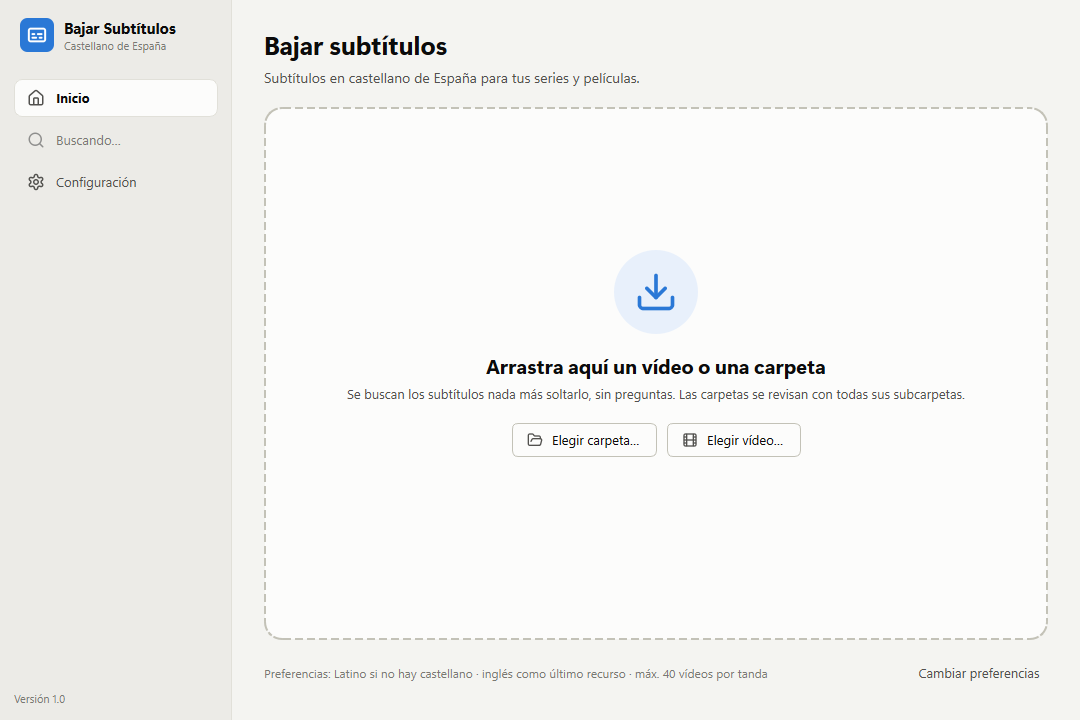
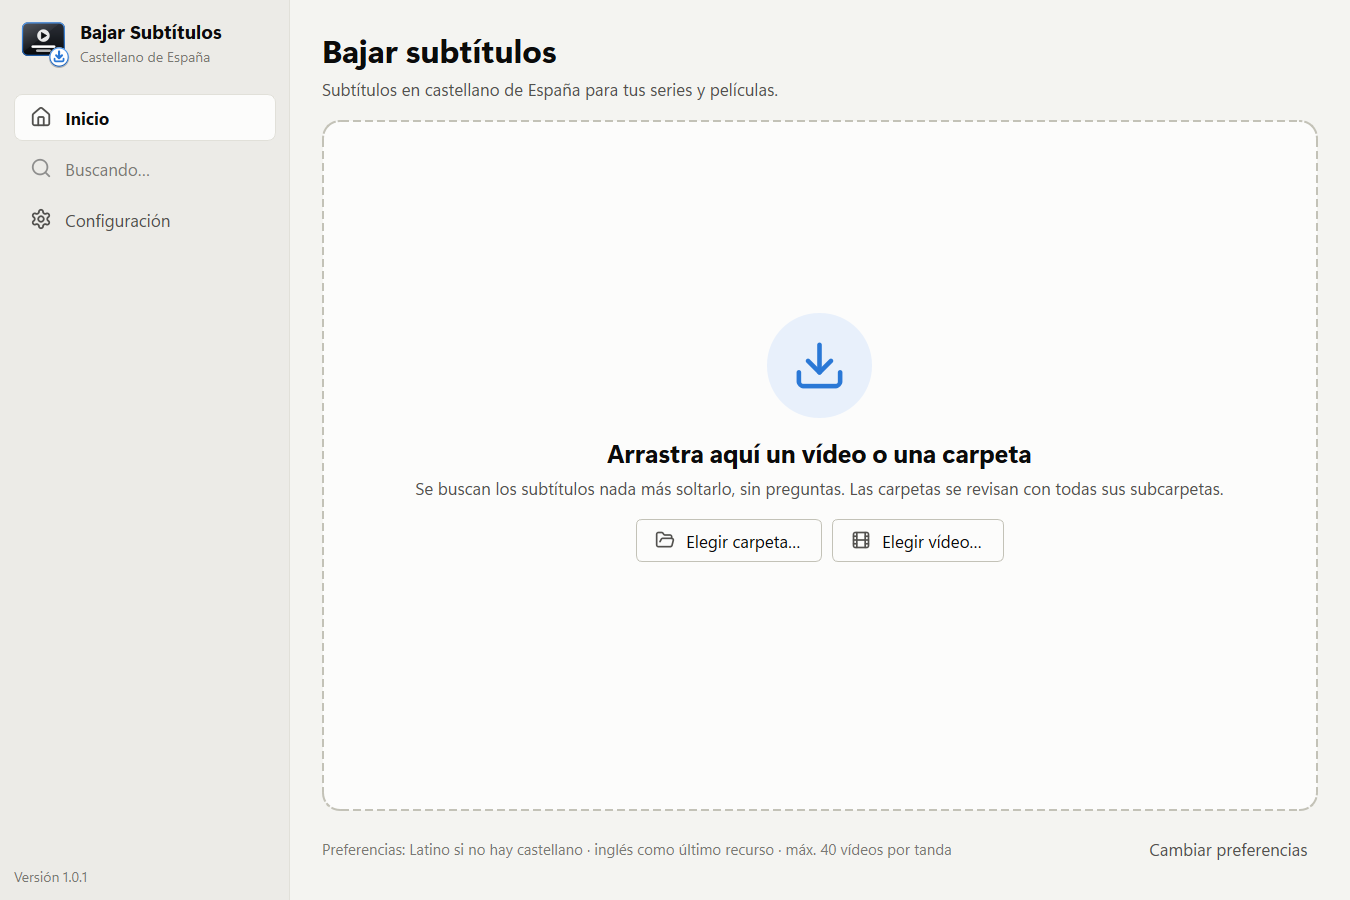
Icono nuevo: pantalla de vídeo con subtítulos y descarga
- iconos.ICONO_APP (SVG): pantalla de cristal oscuro con marco azul,
  play y subtítulos, y una flecha que entra en una bandeja (círculo
  blanco con aro azul). Sin fondo: el contorno es la propia pantalla.
- icono_app() lo dibuja a cada tamaño; el .ico incluye también 20 y
  40 px (los que usa Windows con escalado del 125 % y 250 %).
- Logo de la barra lateral dibujado a la resolución de la pantalla.
- Capturas del README regeneradas.

diff --git a/app/iconos.py b/app/iconos.py
@@ -37,6 +37,50 @@ TRAZOS = {
 }
 
 
+# Icono de la app: pantalla de vídeo (cristal oscuro con marco azul) con play y subtítulos, y una
+# flecha que entra en una bandeja (descargar). Sin fondo: el contorno es la propia pantalla.
+ICONO_APP = '''<svg xmlns="http://www.w3.org/2000/svg" viewBox="0 0 256 256">
+<defs>
+  <linearGradient id="pantalla" x1="0" y1="0" x2="0" y2="1">
+    <stop offset="0" stop-color="#2c3038"/><stop offset="1" stop-color="#07090c"/>
+  </linearGradient>
+  <linearGradient id="vidrio" x1="0" y1="0" x2="1" y2="1">
+    <stop offset="0" stop-color="#ffffff" stop-opacity="0.20"/>
+    <stop offset="0.45" stop-color="#ffffff" stop-opacity="0.05"/>
+    <stop offset="0.46" stop-color="#ffffff" stop-opacity="0"/>
+  </linearGradient>
+  <linearGradient id="azul" x1="0" y1="0" x2="0" y2="1">
+    <stop offset="0" stop-color="#4f9cf5"/><stop offset="1" stop-color="#1c5fb3"/>
+  </linearGradient>
+</defs>
+<rect x="10" y="22" width="220" height="172" rx="30" fill="url(#pantalla)"/>
+<rect x="10" y="22" width="220" height="172" rx="30" fill="url(#vidrio)"/>
+<rect x="13" y="25" width="214" height="166" rx="27" fill="none" stroke="url(#azul)" stroke-width="6"/>
+<circle cx="120" cy="90" r="32" fill="#ffffff" fill-opacity="0.9"/>
+<path d="M109.8 74 L136.6 90 L109.8 106 Z" fill="#0b0d10" stroke="#0b0d10" stroke-width="3.8" stroke-linejoin="round"/>
+<rect x="58" y="140" width="124" height="13" rx="6.5" fill="#ffffff"/>
+<rect x="81.6" y="160.8" width="76.9" height="13" rx="6.5" fill="#ffffff" fill-opacity="0.7"/>
+<circle cx="200" cy="204" r="52" fill="#000000" fill-opacity="0.25"/>
+<circle cx="200" cy="200" r="50" fill="#ffffff"/>
+<circle cx="200" cy="200" r="47" fill="none" stroke="url(#azul)" stroke-width="6"/>
+<path d="M200 171 V204 M185 191 L200 206 L215 191" fill="none" stroke="#2a78d6" stroke-width="11"
+      stroke-linecap="round" stroke-linejoin="round"/>
+<path d="M177 208 V216 A6 6 0 0 0 183 222 H217 A6 6 0 0 0 223 216 V208" fill="none" stroke="#2a78d6"
+      stroke-width="9" stroke-linecap="round" stroke-linejoin="round"/>
+</svg>'''
+
+
+def pixmap_app(lado):
+    """El icono de la app a `lado` x `lado` píxeles."""
+    pm = QPixmap(lado, lado)
+    pm.fill(Qt.transparent)
+    p = QPainter(pm)
+    p.setRenderHint(QPainter.Antialiasing)
+    QSvgRenderer(QByteArray(ICONO_APP.encode())).render(p, QRectF(0, 0, lado, lado))
+    p.end()
+    return pm
+
+
 def _svg(nombre, color, grosor):
     return (f'<svg xmlns="http://www.w3.org/2000/svg" viewBox="0 0 24 24" fill="none" stroke="{color}" '
             f'stroke-width="{grosor}" stroke-linecap="round" stroke-linejoin="round">{TRAZOS[nombre]}</svg>')

diff --git a/app/ventana.py b/app/ventana.py
@@ -2,7 +2,7 @@
 from pathlib import Path
 
 from PySide6.QtCore import QEvent, QPoint, QRectF, Qt, QUrl
-from PySide6.QtGui import QColor, QDesktopServices, QFont, QGuiApplication, QIcon, QPainter, QPen, QPixmap
+from PySide6.QtGui import QDesktopServices, QFont, QGuiApplication, QIcon, QPainter, QPen
 from PySide6.QtWidgets import (QApplication, QButtonGroup, QFrame, QHBoxLayout, QLabel, QMainWindow,
                                QPushButton, QStackedWidget, QVBoxLayout, QWidget)
 
@@ -26,20 +26,10 @@ INICIO, BUSCANDO, AJUSTES = range(3)
 
 
 def icono_app():
-    """Icono de la app: subtítulos blancos sobre un cuadrado redondeado azul."""
+    """Icono de la app (iconos.ICONO_APP) dibujado a cada tamaño que usa Windows, nítido en todos."""
     ico = QIcon()
-    for lado in (16, 24, 32, 48, 64, 128, 256):
-        pm = QPixmap(lado, lado)
-        pm.fill(Qt.transparent)
-        p = QPainter(pm)
-        p.setRenderHint(QPainter.Antialiasing)
-        p.setPen(Qt.NoPen)
-        p.setBrush(QColor('#2a78d6'))
-        p.drawRoundedRect(QRectF(0, 0, lado, lado), lado * 0.22, lado * 0.22)
-        m = lado * 0.18
-        iconos.dibujar(p, 'subtitulos', '#ffffff', QRectF(m, m, lado - 2 * m, lado - 2 * m), 2.2)
-        p.end()
-        ico.addPixmap(pm)
+    for lado in (16, 20, 24, 32, 40, 48, 64, 128, 256):
+        ico.addPixmap(iconos.pixmap_app(lado))
     return ico
 
 
@@ -291,7 +281,11 @@ class Ventana(QMainWindow):
         px = tema.px
         self.setMinimumSize(px(640) + px(232), px(560))
         self.lateral.setFixedWidth(px(232))
-        self.logo.setPixmap(icono_app().pixmap(px(34), px(34)))
+        # Dibujado a la resolución real de la pantalla (nítido con cualquier escalado de Windows).
+        escala = self.devicePixelRatioF() or 1.0
+        logo = iconos.pixmap_app(round(px(40) * escala))
+        logo.setDevicePixelRatio(escala)
+        self.logo.setPixmap(logo)
         for b in self.nav_botones:
             b.setIcon(iconos.icono(b._icono, t['texto2'], px(18)))
         for ic in self.findChildren(IconoLabel):

diff --git a/packaging/generar_recursos.py b/packaging/generar_recursos.py
@@ -1,6 +1,6 @@
 """Genera los recursos del empaquetado (se ejecuta antes de PyInstaller, con el Python de Windows):
 
-- packaging/build/icono.ico: el icono de la app (16-256 px, PNG dentro del .ico).
+- packaging/build/icono.ico: el icono de la app (16-256 px, PNG dentro del .ico), desde iconos.ICONO_APP.
 - packaging/build/version.txt: datos de versión del .exe (Propiedades › Detalles en Windows).
 - packaging/build/AVISOS_TERCEROS.txt: licencias de las librerías incluidas.
 
@@ -27,7 +27,7 @@ def icono():
     from app.ventana import icono_app
     ico = icono_app()
     imagenes = []
-    for lado in (16, 24, 32, 48, 64, 128, 256):
+    for lado in (16, 20, 24, 32, 40, 48, 64, 128, 256):     # los que usa Windows según el escalado
         buf = QBuffer()
         buf.open(QIODevice.WriteOnly)
         ico.pixmap(lado, lado).toImage().save(buf, 'PNG')
